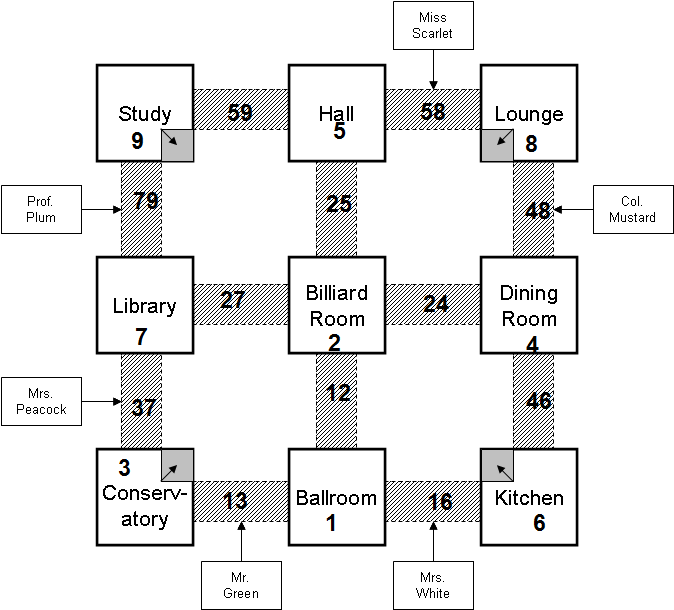
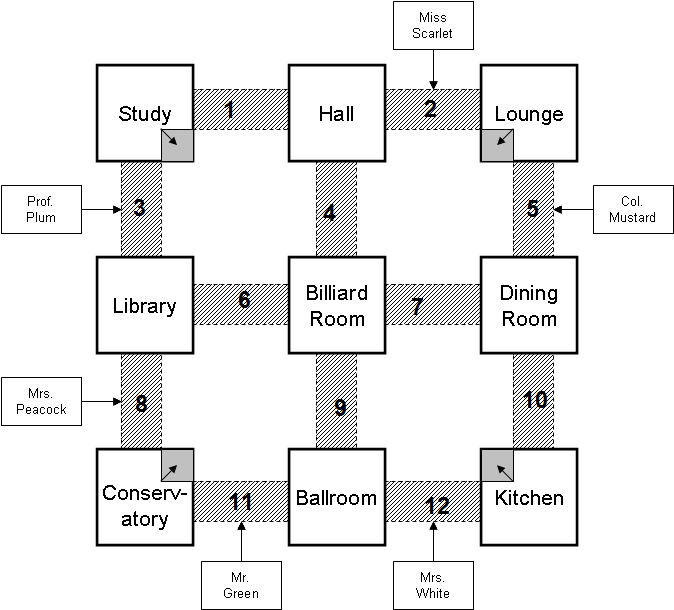
Refactored to use hallways as they are in db

diff --git a/Clueless/Clueless/templates/play.html b/Clueless/Clueless/templates/play.html
@@ -15,27 +15,199 @@
         console.log("Solution Cards:", "{{ solution_cards | safe}}");
 
         const idToText = {
-            weapon1: "Candlestick",
-            weapon2: "Knife",
-            weapon3: "Lead Pipe",
-            weapon4: "Revolver",
-            weapon5: "Rope",
-            weapon6: "Wrench",
-            room1: "Ballroom",
-            room2: "Billiard Room",
-            room3: "Conservatory",
-            room4: "Dining Room",
-            room5: "Hall",
-            room6: "Kitchen",
-            room7: "Library",
-            room8: "Lounge",
-            room9: "Study",
-            suspect1: "Colonel Mustard",
-            suspect2: "Miss Scarlet",
-            suspect3: "Mr. Green",
-            suspect4: "Mrs. Peacock",
-            suspect5: "Mrs. White",
-            suspect6: "Professor Plum"
+            weapon1: {
+                name: "Candlestick"
+            },
+            weapon2: {
+                name: "Knife"
+            },
+            weapon3: {
+                name: "Lead Pipe"
+            },
+            weapon4: {
+                name: "Revolver"
+            },
+            weapon5: {
+                name: "Rope"
+            },
+            weapon6: {
+                name: "Wrench"
+            },
+            room1: {
+                name: "Ballroom",
+                connections: [
+                    "hallway9", 
+                    "hallway11",
+                    "hallway12"
+                ]
+            },
+            room2: {
+                name: "Billiard Room",
+                connections: [
+                    "hallway4",
+                    "hallway6",
+                    "hallway7",
+                    "hallway9"
+                ]
+            },
+            room3: {
+                name: "Conservatory",
+                connections: [
+                    "hallway8",
+                    "hallway11",
+                    "room8"
+                ]
+            },
+            room4: {
+                name: "Dining Room",
+                connections: [
+                    "hallway5",
+                    "hallway7",
+                    "hallway10"
+                ]
+            },
+            room5: {
+                name: "Hall",
+                connections: [
+                    "hallway1",
+                    "hallway2",
+                    "hallway4"
+                ]
+            },
+            room6: {
+                name: "Kitchen",
+                connections: [
+                    "hallway10",
+                    "hallway12",
+                    "room9"
+                ]
+            },
+            room7: {
+                name: "Library",
+                connections: [
+                    "hallway3",
+                    "hallway6",
+                    "hallway8"
+                ]
+            },
+            room8: {
+                name: "Lounge",
+                connections: [
+                    "hallway2",
+                    "hallway5",
+                    "room3"
+                ]
+            },
+            room9: {
+                name: "Study",
+                connections: [
+                    "hallway1",
+                    "hallway3",
+                    "room6"
+                ]
+            },
+            hallway1: {
+                name: getHallwayName("room5", "room9"),
+                connections: [
+                    "room5",
+                    "room9"
+                ]
+            },
+            hallway2: {
+                name: getHallwayName("room5", "room8"),
+                connections: [
+                    "room5",
+                    "room8"
+                ]
+            },
+            hallway3: {
+                name: getHallwayName("room9", "room7"),
+                connections: [
+                    "room7",
+                    "room9"
+                ]
+            },
+            hallway4: {
+                name: getHallwayName("room5", "room2"),
+                connections: [
+                    "room5",
+                    "room2"
+                ]
+            },
+            hallway5: {
+                name: getHallwayName("room8", "room4"),
+                connections: [
+                    "room8",
+                    "room4"
+                ]
+            },
+            hallway6: {
+                name: getHallwayName("room2", "room7"),
+                connections: [
+                    "room2",
+                    "room7"
+                ]
+            },
+            hallway7: {
+                name: getHallwayName("room2", "room4"),
+                connections: [
+                    "room2",
+                    "room4"
+                ]
+            },
+            hallway8: {
+                name: getHallwayName("room7", "room3"),
+                connections: [
+                    "room7",
+                    "room3"
+                ]
+            },
+            hallway9: {
+                name: getHallwayName("room2", "room1"),
+                connections: [
+                    "room2",
+                    "room1"
+                ]
+            },
+            hallway10: {
+                name: getHallwayName("room4", "room6"),
+                connections: [
+                    "room4",
+                    "room6"
+                ]
+            },
+            hallway11: {
+                name: getHallwayName("room3", "room1"),
+                connections: [
+                    "room3",
+                    "room1"
+                ]
+            },
+            hallway12: {
+                name: getHallwayName("room1", "room6"),
+                connections: [
+                    "room1",
+                    "room6"
+                ]
+            },
+            suspect1: {
+                name: "Colonel Mustard"
+            },
+            suspect2: {
+                name: "Miss Scarlet"
+            },
+            suspect3: {
+                name: "Mr. Green"
+            },
+            suspect4: {
+                name: "Mrs. Peacock"
+            },
+            suspect5: {
+                name: "Mrs. White"
+            },
+            suspect6: {
+                name: "Professor Plum"
+            }
         }
 
         const textToId = {
@@ -62,78 +234,8 @@
             "Professor Plum": "suspect6"
         }
 
-        // Each key is the current location, and the values are possible 
-        // locations to move to from that location. Hallways are in the
-        // format "hallway##" where the two numbers are two rooms that
-        // are connected by the hallway.
-        const possibleMoves = {
-            // Ballroom
-            room1: [
-                "hallway12", 
-                "hallway13",
-                "hallway16"
-            ],
-            // Billiard room
-            room2: [
-                "hallway12",
-                "hallway24",
-                "hallway25",
-                "hallway27"
-            ],
-            // Conservatory
-            room3: [
-                "hallway13",
-                "hallway37",
-                "room8"
-            ],
-            // Dining Room
-            room4: [
-                "hallway24",
-                "hallway46",
-                "hallway48"
-            ],
-            // Hall
-            room5: [
-                "hallway25",
-                "hallway58",
-                "hallway59"
-            ],
-            // Kitchen
-            room6: [
-                "hallway16",
-                "hallway46",
-                "room9"
-            ],
-            // Library
-            room7: [
-                "hallway27",
-                "hallway37",
-                "hallway79"
-            ],
-            // Lounge
-            room8: [
-                "hallway48",
-                "hallway58",
-                "room3"
-            ],
-            // Study
-            room9: [
-                "hallway59",
-                "hallway79",
-                "room6"
-            ],
-            // Colonel Mustard
-            suspect1: [ "hallway48" ],
-            // Miss Scarlet
-            suspect2: [ "hallway58" ],
-            // Mr. Green
-            suspect3: [ "hallway13" ],
-            // Mrs. Peacock
-            suspect4: [ "hallway37" ],
-            // Mrs. White
-            suspect5: [ "hallway16" ],
-            // Professor Plum
-            suspect6: [ "hallway79" ]
+        function getHallwayName(room1, room2) {
+            return "Hallway from " + room1 + " to " + room2;
         }
 
         $(document).ready(function() {
@@ -145,7 +247,7 @@
             Object.keys(playerHand).forEach(cardType => {
                 playerHand[cardType].forEach(card => {
                     $("#player-hand").append(
-                        "<li>" + idToText[card] + "</li>"
+                        "<li>" + idToText[card].name + "</li>"
                     );
                 });
             });
@@ -159,21 +261,21 @@
             }
 
             // Notify player of current location
-            $("#player-location-msg").text("You are in the " + idToText["{{ player_location }}"]);
+            $("#player-location-msg").text("You are in the " + idToText["{{ player_location }}"].name);
 
             // initialize suspect, weapon, and location options
             Object.keys(idToText).forEach(id => {
                 if (id.includes("room")) {
                     $(".location-options").append(
-                        "<li>" + idToText[id] + "</li>"
+                        "<li>" + idToText[id].name + "</li>"
                     );
                 } else if (id.includes("suspect")) {
                     $(".suspect-options").append(
-                        "<li>" + idToText[id] + "</li>"
+                        "<li>" + idToText[id].name + "</li>"
                     );
-                } else {
+                } else if (id.includes("weapon")) {
                     $(".weapon-options").append(
-                        "<li>" + idToText[id] + "</li>"
+                        "<li>" + idToText[id].name + "</li>"
                     );
                 }
             });
@@ -201,19 +303,10 @@
         function move() {
             $("#turn-options-menu").hide();
             $("#move-options-menu").show();
-            let moveOptions;
-            // if player_location is a room or suspect starting location
-            if (possibleMoves.hasOwnProperty("{{ player_location }}")) {
-                moveOptions = possibleMoves["{{ player_location }}"];
-            } else {
-                moveOptions = "{{ player_location }}".replace("hallway","").split();
-                moveOptions.forEach(room => {
-                    room = idToText["room" + room];
-                });
-            }
+            let moveOptions = idToText["{{ player_location }}"].connections;
             moveOptions.forEach(option => {
                 $("#move-options").append(
-                    '<li class="move-location">' + option + "</li>"
+                    '<li class="move-location">' + idToText[option].name + "</li>"
                 );
             });
         }
